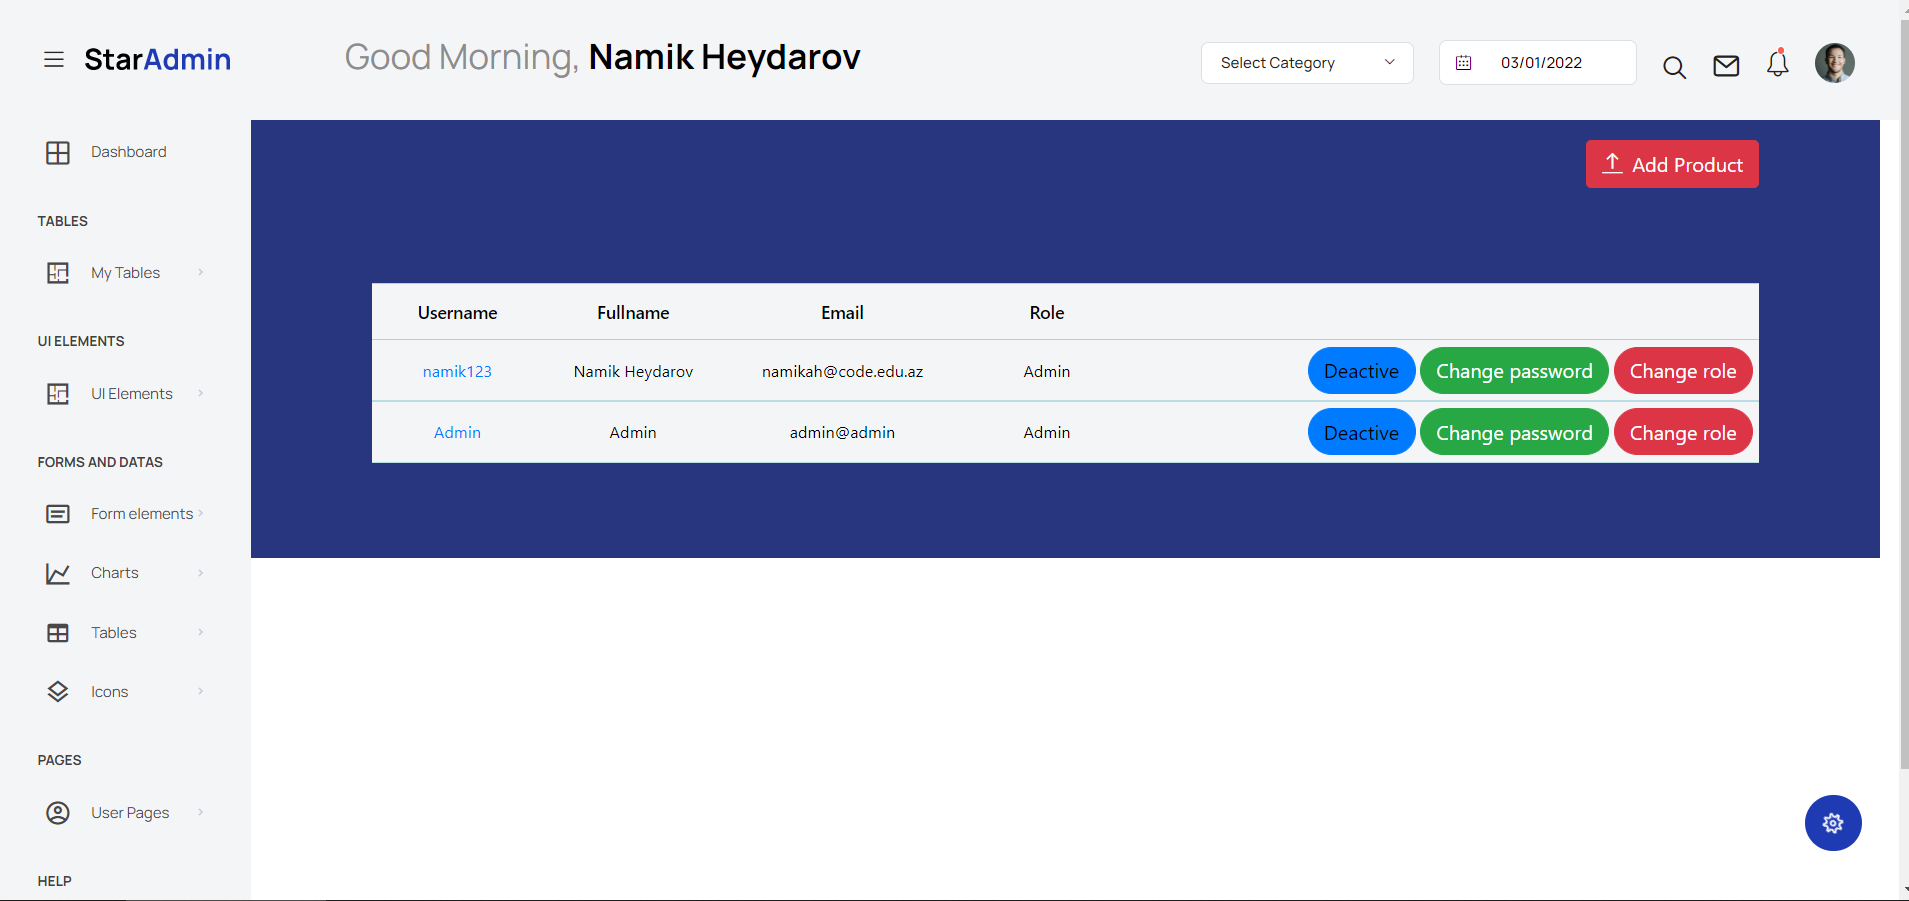
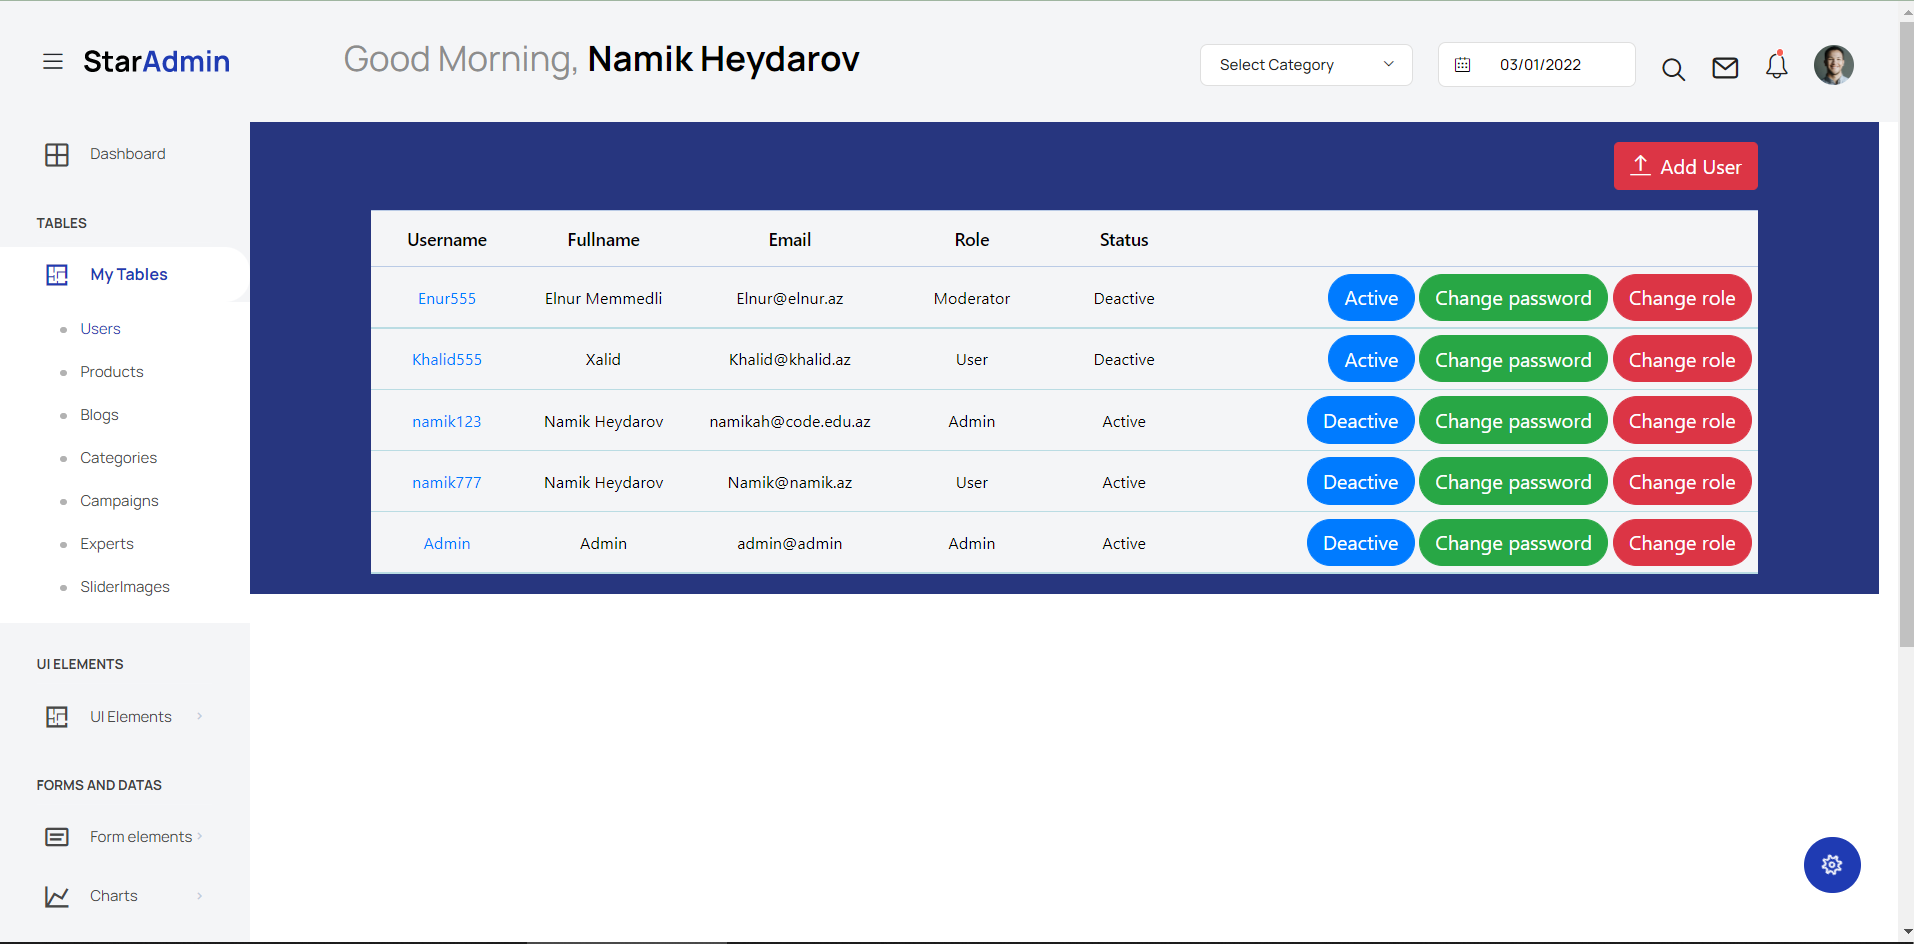
finished

diff --git a/FirstFiorellaMVC/Areas/AdminPanel/Controllers/UserManagerController.cs b/FirstFiorellaMVC/Areas/AdminPanel/Controllers/UserManagerController.cs
@@ -3,6 +3,7 @@ using FirstFiorellaMVC.Controllers;
 using FirstFiorellaMVC.Data;
 using FirstFiorellaMVC.DataAccessLayer;
 using FirstFiorellaMVC.Models;
+using FirstFiorellaMVC.ViewModels;
 using Microsoft.AspNetCore.Authorization;
 using Microsoft.AspNetCore.Identity;
 using Microsoft.AspNetCore.Mvc;
@@ -13,7 +14,7 @@ using System.Threading.Tasks;
 namespace FirstFiorellaMVC.Areas.AdminPanel.Controllers
 {
     [Area("AdminPanel")]
-    //[Authorize(Roles = RoleConstants.AdminRole)]
+    [Authorize(Roles = RoleConstants.AdminRole)]
     public class UserManagerController : Controller
     {
         private readonly UserManager<User> _userManager;
@@ -27,6 +28,7 @@ namespace FirstFiorellaMVC.Areas.AdminPanel.Controllers
             _dbContext = dbContext;
         }
 
+        [AllowAnonymous]
         public async Task<IActionResult> Index()
         {
             var users = await _userManager.Users.ToListAsync();
@@ -139,6 +141,53 @@ namespace FirstFiorellaMVC.Areas.AdminPanel.Controllers
             await _userManager.UpdateAsync(isUser);
 
             return RedirectToAction(nameof(Index));
+        }
+
+        public IActionResult AddUser()
+        {
+            return View();
+        }
+
+        [HttpPost]
+        [ValidateAntiForgeryToken]
+        public async Task<IActionResult> AddUser(RegisterViewModel registerViewModel)
+        {
+            if (!ModelState.IsValid)
+            {
+                return View(registerViewModel);
+            }
+
+            var isExistUser = await _userManager.FindByNameAsync(registerViewModel.Username);
+            if (isExistUser != null)
+            {
+                ModelState.AddModelError("Username", "Allready exist username");
+                return View(registerViewModel);
+            }
+
+            var user = new User()
+            {
+                FullName = registerViewModel.Fullname,
+                UserName = registerViewModel.Username,
+                Email = registerViewModel.Email,
+                Status = false
+            };
+
+            var result = await _userManager.CreateAsync(user, registerViewModel.Password);
+            if (!result.Succeeded)
+            {
+                foreach (var item in result.Errors)
+                {
+                    ModelState.AddModelError("", item.Description);
+                }
+                return View(registerViewModel);
+            }
+
+            await _userManager.AddToRoleAsync(user, RoleConstants.UserRole);
+
+            string token = await _userManager.GenerateEmailConfirmationTokenAsync(user);
+            await _userManager.ConfirmEmailAsync(user, token);
+
+            return RedirectToAction("Index", "UserManager");
         }
     }
 }

diff --git a/FirstFiorellaMVC/Controllers/AccountController.cs b/FirstFiorellaMVC/Controllers/AccountController.cs
@@ -111,6 +111,12 @@ namespace FirstFiorellaMVC.Controllers
                 return View(loginViewModel);
             }
 
+            if (isExistUser.Status == false)
+            {
+                ModelState.AddModelError("", "Access denied");
+                return View(loginViewModel);
+            }
+
             var result = await _signInManager.PasswordSignInAsync(isExistUser, loginViewModel.Password, loginViewModel.RememberMe, false);
             if (!result.Succeeded)
             {

diff --git a/FirstFiorellaMVC/Areas/AdminPanel/Controllers/DashboardController.cs b/FirstFiorellaMVC/Areas/AdminPanel/Controllers/DashboardController.cs
@@ -5,8 +5,10 @@ using Microsoft.AspNetCore.Mvc;
 namespace FirstFiorellaMVC.Areas.AdminPanel.Controllers
 {
     [Area("AdminPanel")]
+    [Authorize(Roles = RoleConstants.AdminRole)]
     public class DashboardController : Controller
     {
+        [AllowAnonymous]
         public IActionResult Index()
         {
             return View();
